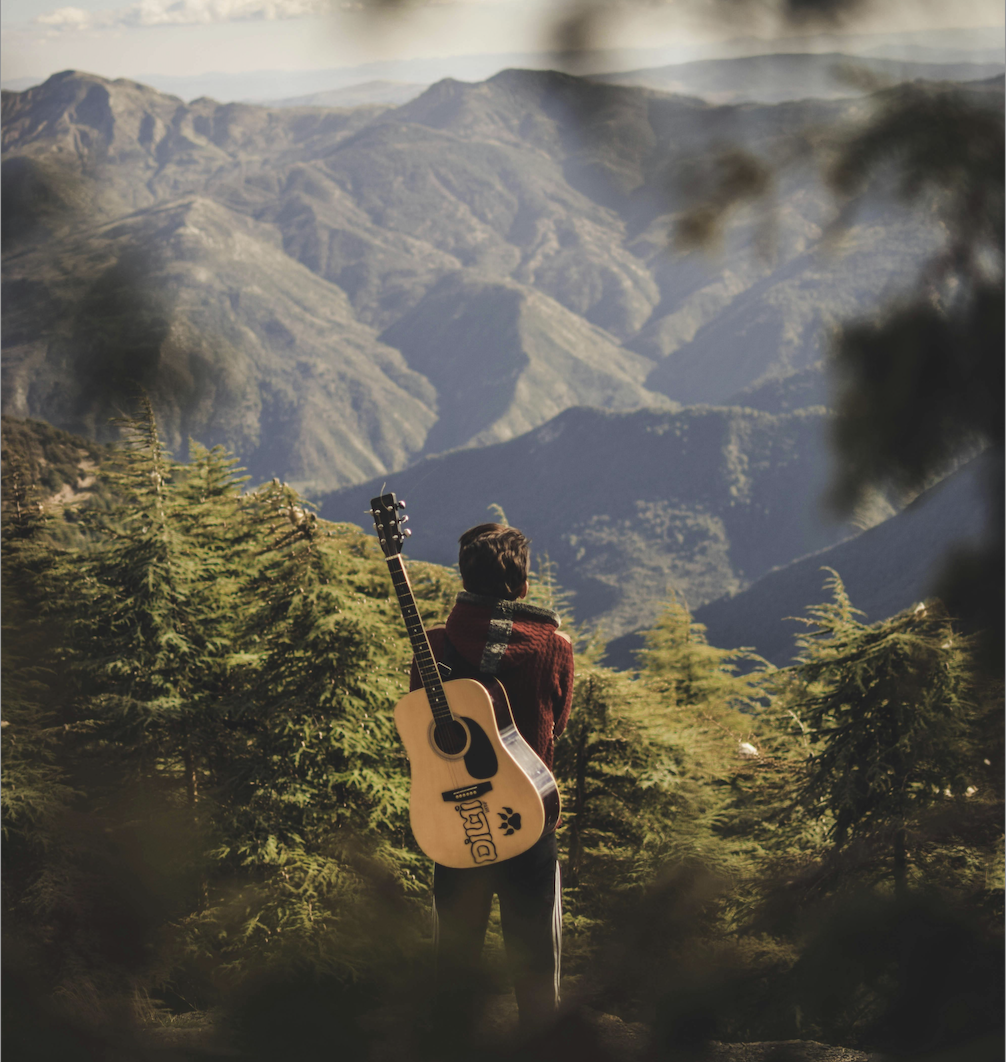
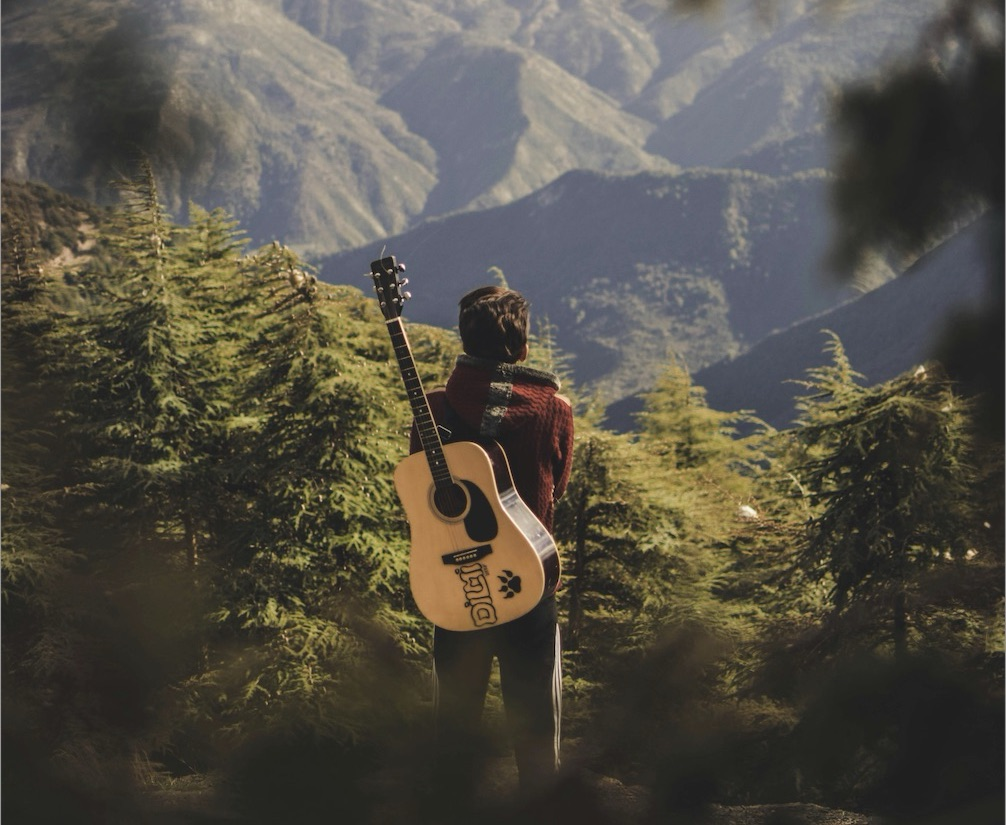
fix roadmap ui

diff --git a/src/app/profile/page.tsx b/src/app/profile/page.tsx
@@ -30,17 +30,64 @@ export default function ProfilePage() {
 
     const fetchUserRoadmaps = async () => {
       try {
-        // This would typically be an API call to get the user's roadmaps
-        const response = await fetch('/api/users/progress', {
+        setIsLoading(true);
+        
+        // Fetch user's roadmaps from the roadmaps API
+        const roadmapsResponse = await fetch(`/api/roadmaps?userId=${user.id}`, {
           headers: {
             'Authorization': `Bearer ${localStorage.getItem('token')}`
           }
         });
         
-        if (response.ok) {
-          const data = await response.json();
-          setUserRoadmaps(data.roadmaps || []);
+        if (!roadmapsResponse.ok) {
+          throw new Error('Failed to fetch user roadmaps');
         }
+        
+        const roadmapsData = await roadmapsResponse.json();
+        
+        // Fetch progress data to combine with roadmaps
+        const progressResponse = await fetch('/api/users/progress', {
+          headers: {
+            'Authorization': `Bearer ${localStorage.getItem('token')}`
+          }
+        });
+        
+        if (!progressResponse.ok) {
+          throw new Error('Failed to fetch user progress');
+        }
+        
+        const progressData = await progressResponse.json();
+        
+        // Create a map of roadmap IDs to progress information
+        const progressMap = new Map();
+        
+        progressData.progress?.forEach((item: any) => {
+          if (item.roadmap && item.steps) {
+            const roadmapId = item.roadmap.id;
+            const totalSteps = item.steps.length;
+            const completedSteps = item.steps.filter((step: any) => step.completed).length;
+            const progress = totalSteps > 0 ? Math.round((completedSteps / totalSteps) * 100) : 0;
+            
+            progressMap.set(roadmapId, {
+              progress,
+              lastAccessed: item.steps.length > 0 
+                ? new Date(Math.max(...item.steps.map((s: any) => s.completedAt ? new Date(s.completedAt).getTime() : 0))).toLocaleDateString()
+                : 'Not started'
+            });
+          }
+        });
+        
+        // Combine roadmap data with progress data
+        const userRoadmapsWithProgress = roadmapsData.roadmaps.map((roadmap: any) => ({
+          id: roadmap.id,
+          title: roadmap.title,
+          topic: roadmap.topic,
+          difficulty: roadmap.difficulty || 'Beginner',
+          progress: progressMap.has(roadmap.id) ? progressMap.get(roadmap.id).progress : 0,
+          lastAccessed: progressMap.has(roadmap.id) ? progressMap.get(roadmap.id).lastAccessed : 'Not started yet'
+        }));
+        
+        setUserRoadmaps(userRoadmapsWithProgress);
       } catch (error) {
         console.error('Error fetching user roadmaps:', error);
       } finally {

diff --git a/src/app/roadmap-generator/page.tsx b/src/app/roadmap-generator/page.tsx
@@ -28,6 +28,7 @@ export default function RoadmapGenerator() {
   const [isPublic, setIsPublic] = useState(false);
   const [isGenerating, setIsGenerating] = useState(false);
   const [selectedPopularTopic, setSelectedPopularTopic] = useState<string | null>(null);
+  const [errorMessage, setErrorMessage] = useState<string | null>(null);
 
   const selectPopularTopic = (topic: string) => {
     setTopic(topic);
@@ -38,24 +39,27 @@ export default function RoadmapGenerator() {
     e.preventDefault();
     
     if (!topic.trim()) {
-      alert('Please enter a topic');
+      setErrorMessage('Please enter a topic');
       return;
     }
     
     setIsGenerating(true);
+    setErrorMessage('');
     
     try {
       const result = await createRoadmap(topic, skillLevel, additionalInfo, isPublic);
       
       if (result.success && result.roadmapId) {
-        router.push(`/roadmaps/${result.roadmapId}`);
+        setTimeout(() => {
+          router.push(`/roadmaps/${result.roadmapId}`);
+        }, 100);
       } else {
-        alert(result.error || 'Failed to create roadmap');
+        setErrorMessage(result.error || 'Failed to create roadmap');
+        setIsGenerating(false);
       }
     } catch (error) {
       console.error('Error creating roadmap:', error);
-      alert('An unexpected error occurred. Please try again.');
-    } finally {
+      setErrorMessage(error instanceof Error ? error.message : 'An unexpected error occurred');
       setIsGenerating(false);
     }
   };
@@ -158,9 +162,9 @@ export default function RoadmapGenerator() {
                 </div>
               )}
             
-              {error && (
+              {errorMessage && (
                 <div className="mb-6 p-4 text-sm text-red-700 bg-red-100 rounded-lg dark:bg-red-200 dark:text-red-800">
-                  <p>{error}</p>
+                  <p>{errorMessage}</p>
                 </div>
               )}
             

diff --git a/src/app/roadmaps/page.tsx b/src/app/roadmaps/page.tsx
@@ -61,7 +61,7 @@ export default function RoadmapsPage() {
       description: 'From holding the guitar to playing your favorite songs with proper technique.',
       category: 'music',
       estimatedTime: '16 weeks',
-      image: 'https://images.unsplash.com/photo-1549298916-b41d501d3772?ixlib=rb-4.0.3&ixid=M3wxMjA3fDB8MHxwaG90by1wYWdlfHx8fGVufDB8fHx8fA%3D%3D&auto=format&fit=crop&w=800&q=80',
+      image: '/images/guitarist-mountains.png',
       popularity: 4.9
     },
     {
